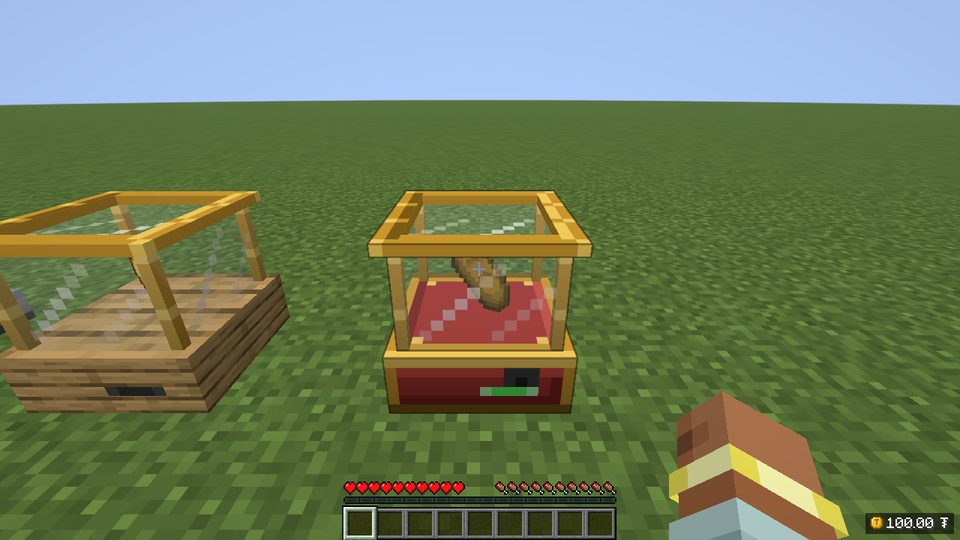
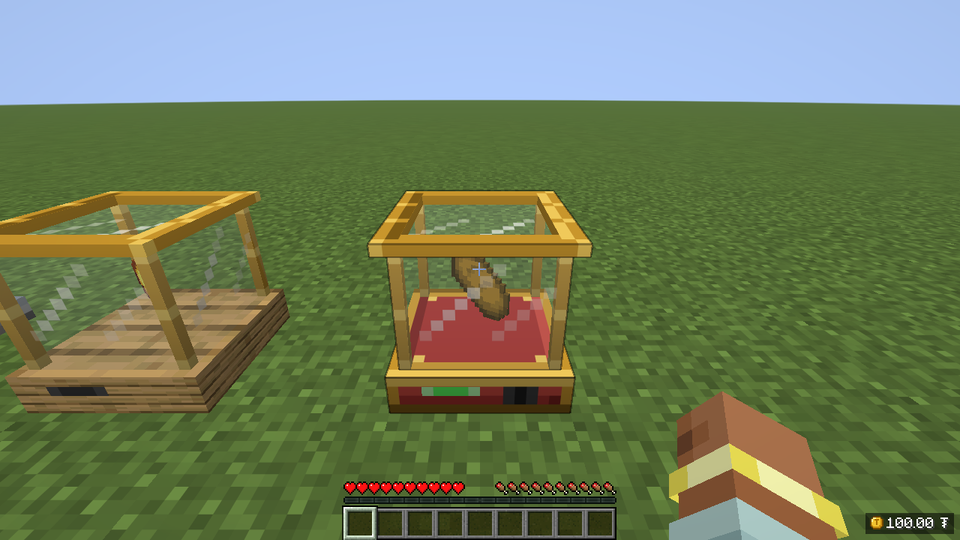
feat(vending): thinner bases, taller glass cases
Vending base 6 -> 4 px, display base 4 -> 3 px. BASE_HEIGHT constants on
both blocks drive the shapes, the facade height and the item height (middle
of the glass). The stock light moves off the coin slot.

Changed region(s): [[0.0, 0.4741, 0.3125, 0.7704], [0.375, 0.4741, 0.625, 0.7704], [0.0, 0.5333, 0.0312, 0.563]]

diff --git a/tools/assets.py b/tools/assets.py
@@ -63,7 +63,10 @@ def uv_box(frm, to):
 
 # ---------------------------------------------------------------- vending block
 
-BASE = ([0, 0, 0], [16, 6, 16])
+# Base heights in pixels; VendingBlock.BASE_HEIGHT and DisplayBlock.BASE_HEIGHT must match
+VENDING_BASE = 4
+DISPLAY_BASE = 3
+BASE = ([0, 0, 0], [16, VENDING_BASE, 16])
 
 
 def vending_base():
@@ -99,12 +102,13 @@ def vending_case():
         "parent": "minecraft:block/block",
         "textures": {"particle": f"{NS}:block/vending_metal", "glass": {"force_translucent": True, "sprite": f"{NS}:block/case_glass"},
                      "metal": f"{NS}:block/vending_metal"},
-        "elements": case_elements(6),
+        "elements": case_elements(VENDING_BASE),
     }
 
 
 def vending_light(on):
-    frm, to = [3, 2, -0.05], [8, 3, 0]
+    # Seen from the front the face is mirrored: x 8-13 is the left side, clear of the coin slot at texture x 10-12
+    frm, to = [8, 2, -0.05], [13, 3, 0]
     return {
         "parent": "minecraft:block/block",
         "textures": {"particle": f"{NS}:block/vending_light_{'on' if on else 'off'}", "light": f"{NS}:block/vending_light_{'on' if on else 'off'}"},
@@ -150,14 +154,14 @@ def vending_blockstate():
 # ---------------------------------------------------------------- display block
 
 def display_model():
-    frm, to = [0, 0, 0], [16, 4, 16]
+    frm, to = [0, 0, 0], [16, DISPLAY_BASE, 16]
     base = box(frm, to, lambda s: "#top" if s in ("up", "down") else "#base", uv_box(frm, to), cull=True)
     return {
         "parent": "minecraft:block/block",
         "textures": {"particle": f"{NS}:block/display_base", "base": f"{NS}:block/display_base", "top": f"{NS}:block/display_top",
                      "glass": {"force_translucent": True, "sprite": f"{NS}:block/case_glass"},
                      "metal": f"{NS}:block/display_metal"},
-        "elements": [base] + case_elements(4),
+        "elements": [base] + case_elements(DISPLAY_BASE),
         "display": block_item_display(),
     }
 

diff --git a/tools/textures.py b/tools/textures.py
@@ -87,19 +87,18 @@ def grid(rows):
 
 
 def vending_side():
-    """Rows 10-15 are the 6 px base: brass band on top, red body, shadow. Rows 0-9 only fill unused UV space."""
-    body = ["kRRRRRRRRRRRRRRk"] + ["krrrrrrrrrrrrrdk"] * 9
-    base = ["BBBBBBBBBBBBBBBB", "bRRRRRRRRRRRRRRb", "brrrrrrrrrrrrrdb", "brrrrrrrrrrrrrdb", "bddddddddddddddb", "nnnnnnnnnnnnnnnn"]
+    """Rows 12-15 are the 4 px base: brass band on top, red body, brass band below. Rows 0-11 only fill unused UV space."""
+    body = ["kRRRRRRRRRRRRRRk"] + ["krrrrrrrrrrrrrdk"] * 11
+    base = ["BBBBBBBBBBBBBBBB", "bRRRRRRRRRRRRRRb", "brrrrrrrrrrrrrdb", "nnnnnnnnnnnnnnnn"]
     return grid(body + base)
 
 
 def vending_front():
     rows = vending_side()
     rows = rows[:]
-    # coin slot at x 11..13, rows 11..13 (y 2..4 from the bottom)
-    rows[11] = rows[11][:10] + "ggg" + rows[11][13:]
-    rows[12] = rows[12][:10] + "gsg" + rows[12][13:]
+    # coin slot at x 10..12, rows 13..14 (y 1..3 from the bottom), between the brass bands
     rows[13] = rows[13][:10] + "gsg" + rows[13][13:]
+    rows[14] = rows[14][:10] + "gsg" + rows[14][13:]
     return grid(rows)
 
 
@@ -144,7 +143,8 @@ DISPLAY = {
 
 
 def display_base():
-    rows = ["qqqqqqqqqqqqqqqq"] * 12 + ["MMMMMMMMMMMMMMMM", "QqqqqqqqqqqqqqqQ", "qddddddddddddddq", "kkkkkkkkkkkkkkkk"]
+    """Rows 13-15 are the 3 px base: silver band, quartz, dark edge."""
+    rows = ["qqqqqqqqqqqqqqqq"] * 13 + ["MMMMMMMMMMMMMMMM", "QqqqqqqqqqqqqqqQ", "kddddddddddddddk"]
     return grid(rows)
 
 
@@ -167,7 +167,7 @@ GLASS = {
 
 
 def case_glass():
-    """Two diagonal streaks kept inside the UV areas every face uses (walls x 1-15, y 1-10; top 2-14)."""
+    """Two diagonal streaks kept inside the UV areas every face uses (walls x 1-15, y 1-12; top 2-14)."""
     rows = [["."] * 16 for _ in range(16)]
     for x in range(3, 10):   # long streak on x + y = 11
         rows[11 - x][x] = "h" if 4 <= x <= 7 else "l"

diff --git a/common/src/main/java/dev/eliasnvx/tradery/client/render/VendingRenderer.java b/common/src/main/java/dev/eliasnvx/tradery/client/render/VendingRenderer.java
@@ -9,7 +9,7 @@ import net.minecraft.world.item.ItemStack;
 import net.minecraft.world.level.block.state.BlockState;
 import org.jetbrains.annotations.Nullable;
 
-/** Vending block: goods in the glass case, facade in the 6 px base. */
+/** Vending block: goods in the glass case, facade in the base. */
 public class VendingRenderer extends ShowcaseRenderer<VendingBlockEntity> {
     public VendingRenderer(BlockEntityRendererProvider.Context context) {
         super(context);
@@ -37,11 +37,11 @@ public class VendingRenderer extends ShowcaseRenderer<VendingBlockEntity> {
 
     @Override
     protected float itemY() {
-        return 10.5f / 16f;
+        return caseCenter(VendingBlock.BASE_HEIGHT);
     }
 
     @Override
     protected float baseHeight() {
-        return 6f / 16f;
+        return VendingBlock.BASE_HEIGHT / 16f;
     }
 }

diff --git a/common/src/main/java/dev/eliasnvx/tradery/vending/DisplayBlock.java b/common/src/main/java/dev/eliasnvx/tradery/vending/DisplayBlock.java
@@ -31,9 +31,12 @@ import org.jetbrains.annotations.Nullable;
 /** Display block: a showcase without trading. The owner picks the item and the animation. */
 public class DisplayBlock extends BaseEntityBlock {
     public static final EnumProperty<Direction> FACING = BlockStateProperties.HORIZONTAL_FACING;
+    /** Height of the base under the glass case, in pixels; the model in tools/assets.py uses the same value. */
+    public static final int BASE_HEIGHT = 3;
+
     private static final VoxelShape SHAPE = Shapes.or(
-        Block.box(0, 0, 0, 16, 4, 16),
-        Block.box(1, 4, 1, 15, 15, 15),
+        Block.box(0, 0, 0, 16, BASE_HEIGHT, 16),
+        Block.box(1, BASE_HEIGHT, 1, 15, 15, 15),
         Block.box(0, 15, 0, 16, 16, 16));
 
     public DisplayBlock(BlockBehaviour.Properties properties) {

diff --git a/common/src/main/java/dev/eliasnvx/tradery/vending/VendingBlock.java b/common/src/main/java/dev/eliasnvx/tradery/vending/VendingBlock.java
@@ -44,9 +44,12 @@ public class VendingBlock extends BaseEntityBlock {
     /** A facade replaces the default base; the renderer draws it. */
     public static final BooleanProperty FACADE = BooleanProperty.create("facade");
 
+    /** Height of the base under the glass case, in pixels; the models in tools/assets.py use the same value. */
+    public static final int BASE_HEIGHT = 4;
+
     private static final VoxelShape SHAPE = Shapes.or(
-        Block.box(0, 0, 0, 16, 6, 16),
-        Block.box(1, 6, 1, 15, 15, 15),
+        Block.box(0, 0, 0, 16, BASE_HEIGHT, 16),
+        Block.box(1, BASE_HEIGHT, 1, 15, 15, 15),
         Block.box(0, 15, 0, 16, 16, 16));
 
     public VendingBlock(BlockBehaviour.Properties properties) {

diff --git a/common/src/main/java/dev/eliasnvx/tradery/client/render/ShowcaseRenderer.java b/common/src/main/java/dev/eliasnvx/tradery/client/render/ShowcaseRenderer.java
@@ -49,6 +49,11 @@ public abstract class ShowcaseRenderer<T extends BlockEntity> implements BlockEn
 
     protected abstract float itemY();
 
+    /** Middle of the glass case between a base of {@code baseHeight} pixels and the frame at 15 px. */
+    protected static float caseCenter(int baseHeight) {
+        return (baseHeight + 15) / 2f / 16f;
+    }
+
     protected float baseHeight() {
         return 0;
     }

diff --git a/common/src/main/java/dev/eliasnvx/tradery/client/render/DisplayRenderer.java b/common/src/main/java/dev/eliasnvx/tradery/client/render/DisplayRenderer.java
@@ -30,6 +30,6 @@ public class DisplayRenderer extends ShowcaseRenderer<DisplayBlockEntity> {
 
     @Override
     protected float itemY() {
-        return 9.5f / 16f;
+        return caseCenter(DisplayBlock.BASE_HEIGHT);
     }
 }

diff --git a/docs/decisions.md b/docs/decisions.md
@@ -55,9 +55,10 @@ Short architecture decisions (ADR-lite): date, decision, why. The SPEC section "
 - Buyer screens get stock and affordability through two data slots (16-bit, capped at 9999), recomputed in `broadcastChanges`.
 - Contents drop in `BlockEntity#preRemoveSideEffects` (removal, not unload), which also closes the menus and updates the vendor index.
 - Protection: destroy progress 0 for strangers; creative-mode instant breaking is blocked through Fabric `PlayerBlockBreakEvents.BEFORE` / NeoForge `BreakBlockEvent`; `PushReaction.IMMOVEABLE`; bedrock-level blast resistance.
-- Facade: rendered by the block entity renderer with `BlockModelResolver`, squeezed into the 6 px base; the blockstate `facade=true` hides the default base model.
+- Facade: rendered by the block entity renderer with `BlockModelResolver`, squeezed into the base; the blockstate `facade=true` hides the default base model.
 - NeoForge GameTest mock players don't have `neoforge:advanced_open_screen`; for such connections menus open the vanilla way (server-side menu is identical).
 - Screens are drawn with fills (`Panels`), no GUI textures.
+- Case proportions: base 4 px (vending: coin slot and stock light) / 3 px (display), glass up to the 1 px frame at 15-16 px. `VendingBlock.BASE_HEIGHT` / `DisplayBlock.BASE_HEIGHT` drive the shapes, the facade height and the item's height (middle of the glass); `tools/assets.py` has the same numbers.
 - Both cases are glass on top too: a 2 px metal frame holds a flat glass pane one pixel below its top (the pane has an up and a down face, so it shows through the walls). Walls and top use `tradery:block/case_glass` (faint tint + streaks) instead of vanilla glass, which is almost fully transparent and made the top look open.
 
 ## 2026-09-30: Money sources
